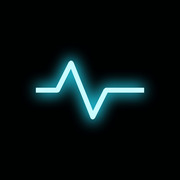
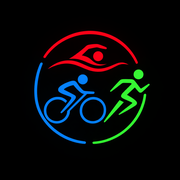
Glossario al tocco sulle metriche; nuova icona dell'app

Changed region(s): [[0.1667, 0.1667, 0.8333, 0.8056]]

diff --git a/web/glossary.js b/web/glossary.js
@@ -1,0 +1,157 @@
+// ============================================================== Glossario: tocca una metrica per sapere cos'e'
+// Le etichette con una voce qui sotto diventano toccabili (sottolineatura tratteggiata); il riquadro si chiude
+// toccando altrove. Le chiavi usano la stessa normalizzazione delle icone (window.nxKey).
+(() => {
+  const G = {
+    // ---------------------------------------------------------- corsa
+    distanza: 'Chilometri percorsi in movimento, dal GPS (o dal sensore sul tapis roulant).',
+    durata: 'Tempo in movimento: le soste non contano.',
+    tempo: 'Tempo in movimento: le soste non contano.',
+    passo: 'Minuti per chilometro sui tratti in movimento. Più basso vuol dire più veloce.',
+    'fc media': 'Frequenza cardiaca media della corsa, in battiti al minuto.',
+    'fc max': 'Il battito più alto registrato durante la corsa.',
+    dislivello: "Metri di salita totali, presi sempre da Strava: mai dall'orologio, che anche in piano sbaglia.",
+    tss: "Training Stress Score: quanto ha pesato l'allenamento, unendo durata e intensità. 100 ≈ un'ora alla soglia.",
+    cadenza: 'Passi al minuto, contando entrambi i piedi. Sale con la velocità; più alta di solito significa appoggi più leggeri.',
+    contatto: 'Millisecondi in cui il piede resta a terra a ogni passo. A parità di velocità, più breve = corsa più reattiva.',
+    'contatto al suolo': 'Tempo del piede a terra a ogni passo e bilanciamento sinistro/destro. A parità di velocità, più breve e più simmetrico è meglio.',
+    'efficiency factor': "Metri al minuto ottenuti per ogni battito. Se sale nel tempo a parità di sforzo, il motore aerobico migliora.",
+    'vo2max garmin': 'Stima Garmin del massimo consumo di ossigeno (ml/kg/min): il tuo potenziale aerobico.',
+    'vo2max stimato': 'Stima Garmin del massimo consumo di ossigeno (ml/kg/min): il tuo potenziale aerobico.',
+    'controllo intensita': "Quanto sei rimasto nelle zone (FC o target) giuste per quel tipo di allenamento.",
+    'efficienza aerobica': 'Deriva cardiaca ed Efficiency Factor rispetto alle tue corse simili: se il cuore non sale, la base aerobica è solida.',
+    'gestione del ritmo': 'Costanza del passo tra i giri e tra prima e seconda metà; nelle ripetute, quanto sono uguali tra loro.',
+    'rimbalzo verticale': "Quanto sali e scendi rispetto alla lunghezza del passo. Meno è meglio: l'energia va in avanti, non in alto.",
+    'resistenza alla fatica': "Quanto cambiano cadenza, contatto, passo e costo cardiaco nell'ultimo terzo rispetto al primo: la tenuta del gesto.",
+    'oscillazione verticale': 'Centimetri di su e giù del busto a ogni passo.',
+    'rapporto verticale': 'Oscillazione verticale divisa per la lunghezza del passo. Più basso = corsa più economica.',
+    'lunghezza del passo': 'Distanza tra due appoggi consecutivi, in metri.',
+    'deriva cardiaca': 'Quanto peggiora il rapporto passo/battito nella seconda metà. Sotto il 5% la base aerobica regge bene.',
+    'frequenza cardiaca': 'Battiti al minuto lungo il percorso.',
+    'split per km': 'Passo di ogni chilometro; il colore indica la FC (dal ciano, bassa, al magenta, alta).',
+    altimetria: "Profilo della quota; il dislivello totale è sempre quello di Strava.",
+    'passo a parita di frequenza cardiaca': 'A che passo corri con lo stesso battito: se diventa più veloce nel tempo, sei più in forma.',
+    'dinamiche a parita di passo': 'Cadenza, contatto e oscillazione allo stesso passo: se migliorano, il gesto è più economico.',
+    'volume settimanale': 'Chilometri di corsa per settimana, outdoor e tapis roulant insieme.',
+    // ---------------------------------------------------------- recupero
+    'indice di recupero': 'Sintesi 0-100 di HRV, sonno, FC a riposo, Body Battery e stress, confrontati con i tuoi ultimi 60 giorni.',
+    hrv: 'Variabilità del battito nel sonno. Più alta della tua media = sistema nervoso recuperato.',
+    'hrv notturna': 'Variabilità del battito nel sonno. Più alta della tua media = sistema nervoso recuperato.',
+    'variabilita hrv': "Quanto oscilla l'HRV da un giorno all'altro (7 giorni). Sopra il 6% il sistema è sotto stress.",
+    sonno: 'Punteggio e ore di sonno della notte, rispetto al tuo fabbisogno.',
+    'fc a riposo': 'Battito a riposo. Se sale sopra la tua media spesso segnala fatica, stress o un malanno in arrivo.',
+    'body battery': "Energia stimata da Garmin (0-100) al risveglio, da HRV, stress e sonno.",
+    'body battery ricaricata': 'Punti di energia recuperati durante la notte.',
+    stress: 'Stress medio della giornata, misurato da Garmin dalla variabilità del battito.',
+    'durata vs fabbisogno': 'Ore dormite rispetto al fabbisogno stimato da Garmin.',
+    'sleep score': 'Punteggio Garmin della notte (0-100): durata, fasi e risvegli.',
+    'sonno profondo e rem': 'Quota di sonno profondo (recupero fisico) e REM (recupero mentale) sul totale.',
+    'orario di addormentamento': "Ora in cui ti addormenti: più è regolare, meglio recuperi.",
+    'respiro nel sonno': "Respiri al minuto nel sonno: un aumento rispetto alla tua base spesso anticipa un'infezione.",
+    'spo2 nel sonno': "Saturazione di ossigeno nel sonno (%).",
+    'quantita di sonno': 'Ore dormite rispetto al fabbisogno, nella settimana.',
+    'qualita del sonno': 'Sleep Score e quota di sonno profondo + REM, nella settimana.',
+    'regolarita del sonno': "Quanto è costante l'orario in cui ti addormenti.",
+    'stress ed energia': 'Stress diurno e energia recuperata di notte (Body Battery).',
+    'equilibrio del carico': 'Rapporto tra carico recente e abituale, e forma (TSB).',
+    'segnali respiratori': 'Respiro e SpO2 notturni rispetto alla tua base: spesso cambiano prima di un malanno.',
+    // ---------------------------------------------------------- carico
+    cronico: "CTL: il carico medio delle ultime 6 settimane circa. È la tua forma di base.",
+    acuto: "ATL: il carico medio dell'ultima settimana circa. È la fatica recente.",
+    forma: "TSB = cronico − acuto. Negativo: stai accumulando fatica; positivo: sei fresco.",
+    'rapporto acuto:cronico': "Carico dell'ultima settimana rispetto alle ultime 6. Tra 0,8 e 1,3 il rischio di sovraccarico è più basso.",
+    'carico acuto vs cronico': 'Fatica recente (acuto) e forma di base (cronico); le barre sono il carico di ogni giorno.',
+    'carico di oggi': 'Forma, fatica e rapporto tra carico recente e abituale, calcolati dal TSS di tutti gli allenamenti.',
+    // ---------------------------------------------------------- voto del preparatore
+    'esecuzione dellallenamento': 'Quanto la seduta ha rispettato il piano e gli obiettivi del suo tipo: 70% del voto.',
+    'tecnica e tenuta': 'Qualità del gesto: cadenza, contatto, rimbalzo e tenuta con la fatica: 30% del voto.',
+    'fc sotto la soglia aerobica': 'Quota di tempo con il battito sotto il tetto della Z2: in un facile dovrebbe essere quasi tutto.',
+    'passo nel range facile': 'Se il passo è rimasto nel ritmo facile; in salita conta poco.',
+    'durata rispettata': 'Chilometri fatti rispetto a quelli previsti dal piano.',
+    'durata/distanza': 'Chilometri fatti rispetto a quelli previsti (o al lungo di riferimento).',
+    'passo delle ripetute': 'Quanto le ripetute sono state nel passo obiettivo.',
+    'regolarita tra le ripetute': "Quanto le ripetute sono state uguali tra loro.",
+    regolarita: 'Quanto sono stati uguali gli split.',
+    'fc coerente con lo sforzo': 'Se il battito nei tratti veloci era quello atteso per quel passo.',
+    'recuperi rispettati': 'Se le pause tra le ripetute sono durate quanto previsto.',
+    'volume di qualita completato': 'Chilometri fatti davvero al passo obiettivo rispetto a quelli previsti.',
+    'tratti a passo gara': 'Quanti chilometri al ritmo gara, e con quale battito.',
+    'tenuta del passo nel finale': "Quanto rallenti nell'ultimo 20% rispetto alla prima metà.",
+    'risultato vs stima': 'Tempo di gara rispetto alla stima della vigilia.',
+    // ---------------------------------------------------------- analisi predittive
+    prontezza: 'Quanto sei pronto oggi: sistema autonomo (HRV, battito, sonno) × neuromuscolare (test sul telefono).',
+    'sistema autonomo': "Recupero 'interno' da HRV (50%), FC a riposo e sonno, rispetto alla tua base.",
+    'sistema neuromuscolare': 'Prontezza dei muscoli e dei riflessi: tapping test di 10 s o salto CMJ, confrontati con la tua media.',
+    'carico cuore e struttura': 'Quanto lavora il cuore (TRIMP) e quanto lavorano gambe e articolazioni (impatti e discese) negli ultimi 7 giorni, rispetto al tuo storico.',
+    cardiovascolare: "Carico per il cuore: minuti in ogni zona di FC pesati per l'intensità (TRIMP).",
+    cuore: "Carico per il cuore: minuti in ogni zona di FC pesati per l'intensità (TRIMP).",
+    strutturale: 'Carico per gambe e articolazioni: passi × forza di ogni impatto, più alto in discesa e se appoggi in modo asimmetrico.',
+    struttura: 'Carico per gambe e articolazioni: passi × forza di ogni impatto, più alto in discesa e se appoggi in modo asimmetrico.',
+    'carico della corsa': 'Il peso di questa corsa per cuore e struttura, rispetto alle tue corse degli ultimi 120 giorni.',
+    carburante: 'Energia, carboidrati e grassi bruciati, e quanto reintegrare dopo.',
+    energia: 'Calorie spese correndo: circa 1 kcal per kg per km.',
+    carboidrati: "Grammi di zuccheri bruciati: più alta è l'intensità, più se ne usano.",
+    grassi: 'Grammi di grassi bruciati: soprattutto alle andature facili.',
+    'glicogeno usato': 'Quota delle scorte di zuccheri nei muscoli e nel fegato consumata (stima ~7 g/kg).',
+    'deriva biomeccanica': "Come cambia il gesto con la fatica: cadenza, contatto, oscillazione e simmetria nell'ultimo terzo.",
+    'forma verso la gara': 'Modello forma-fatica: proietta il piano fino alla gara e mostra quando sarai più in forma.',
+  };
+  const SEL = '.nx-stat > span:first-child, .gx-tile-name, .nx-sec-name, .gl-part-name > b, .nx-card-head > h3, .gx-dl dt, '
+    + '.px-sys-name, .gx-card > h2';
+  const keyOf = (e) => (window.nxKey ? window.nxKey(e.textContent) : (e.textContent || '').toLowerCase().trim());
+  const root = document.querySelector('.gx') || document.body;
+
+  function decorate() {
+    root.querySelectorAll(SEL).forEach((e) => {
+      if (e.classList.contains('nx-gl')) return;
+      if (!G[keyOf(e)]) return;
+      e.classList.add('nx-gl');
+      e.tabIndex = 0;
+      e.setAttribute('role', 'button');
+      e.setAttribute('aria-haspopup', 'dialog');
+    });
+  }
+
+  let tip = null;
+  const close = () => { if (tip) { tip.remove(); tip = null; } };
+  function open(e) {
+    close();
+    const text = G[keyOf(e)];
+    if (!text) return;
+    tip = document.createElement('div');
+    tip.className = 'nx-gloss';
+    tip.setAttribute('role', 'dialog');
+    const b = document.createElement('b'); b.textContent = e.textContent.split(/[·(]/)[0].trim();
+    const p = document.createElement('p'); p.textContent = text;
+    tip.append(b, p);
+    document.body.append(tip);
+    const r = e.getBoundingClientRect(), vw = document.documentElement.clientWidth, vh = window.innerHeight;
+    const w = Math.min(300, vw - 24);
+    tip.style.width = w + 'px';
+    tip.style.left = Math.max(12, Math.min(vw - w - 12, r.left)) + 'px';
+    const below = r.bottom + 8, h = tip.offsetHeight;
+    tip.style.top = (below + h > vh - 12 ? Math.max(12, r.top - h - 8) : below) + 'px';
+  }
+
+  document.addEventListener('click', (ev) => {
+    const e = ev.target.closest && ev.target.closest('.nx-gl');
+    if (e) { ev.preventDefault(); ev.stopPropagation(); open(e); return; }
+    if (!(tip && tip.contains(ev.target))) close();
+  }, true);
+  document.addEventListener('keydown', (ev) => {
+    if (ev.key === 'Escape') close();
+    if ((ev.key === 'Enter' || ev.key === ' ') && document.activeElement && document.activeElement.classList.contains('nx-gl')) {
+      ev.preventDefault(); open(document.activeElement);
+    }
+  });
+  window.addEventListener('scroll', close, { passive: true });
+  window.addEventListener('resize', close);
+
+  let queued = false;
+  new MutationObserver(() => {
+    if (queued) return;
+    queued = true;
+    requestAnimationFrame(() => { queued = false; decorate(); });
+  }).observe(root, { childList: true, subtree: true });
+  decorate();
+})();

diff --git a/web/neon.css b/web/neon.css
@@ -353,6 +353,17 @@
   font: 600 28px/1 ui-monospace, monospace; letter-spacing: .1em; box-shadow: 0 0 30px #22e5ff44; touch-action: manipulation; user-select: none; -webkit-user-select: none; }
 .px-tap-pad:active { background: #22e5ff33; }
 
+/* Glossario: etichette toccabili e riquadro con la spiegazione */
+.nx-gl { cursor: help; text-decoration: underline dotted rgba(131, 145, 184, .55); text-underline-offset: 3px; text-decoration-thickness: 1px; }
+.nx-gl:hover, .nx-gl:focus-visible { text-decoration-color: #22e5ff; outline: none; }
+.nx-gloss { position: fixed; z-index: 120; background: #0c1120; color: #e8f1ff; border: 1px solid #22e5ff66; border-radius: 12px;
+  padding: 10px 12px; box-shadow: 0 0 18px #22e5ff33, 0 10px 30px rgba(0, 0, 0, .6); font-family: var(--font-anthropic-sans, system-ui, sans-serif);
+  font-size: 13px; line-height: 1.45; text-transform: none; letter-spacing: 0; }
+.nx-gloss b { display: block; color: #22e5ff; font-size: 12px; text-transform: uppercase; letter-spacing: .08em; margin-bottom: 4px; }
+.nx-gloss p { margin: 0; }
+@media (prefers-reduced-motion: no-preference) { .nx-gloss { animation: nx-gloss-in .18s ease-out; } }
+@keyframes nx-gloss-in { from { opacity: 0; transform: translateY(-4px); } }
+
 /* Icone: tratto laser sottile, tono dalla palette neon, alone leggero che si accende al passaggio */
 .nx-ic {
   /* inline-block esplicito: claude.ai rende ogni svg un blocco e l'icona finirebbe su una riga a se' */

diff --git a/web/sw.js b/web/sw.js
@@ -1,7 +1,7 @@
 // Service worker: l'app si apre anche offline (ultimi dati scaricati, sempre cifrati).
 // File dell'app dalla cache (versione = impronta della build), data.bin prima dalla rete.
-const CACHE = 'diario-8d286adf0ee8';
-const SHELL = ["./", "app.js", "base.css", "carica.js", "d3.min.js", "goal.js", "icon-180.png", "icon-192.png", "icon-512.png", "icons.js", "index.html", "inline-1.js", "inline-2.js", "inline-3.js", "inline-4.js", "manifest.webmanifest", "neon.css", "page.css", "pages.js", "perf.js", "recovery.js", "run.js", "today.js"];
+const CACHE = 'diario-9fbe2371cf3d';
+const SHELL = ["./", "app.js", "base.css", "carica.js", "d3.min.js", "glossary.js", "goal.js", "icon-180.png", "icon-192.png", "icon-512.png", "icons.js", "index.html", "inline-1.js", "inline-2.js", "inline-3.js", "inline-4.js", "manifest.webmanifest", "neon.css", "page.css", "pages.js", "perf.js", "recovery.js", "run.js", "today.js"];
 
 self.addEventListener('install', (e) => {
   e.waitUntil(caches.open(CACHE).then((c) => c.addAll(SHELL)).then(() => self.skipWaiting()));

diff --git a/web/index.html b/web/index.html
@@ -23,7 +23,7 @@
 <body>
 <div id="lock">
   <form id="lock-form" class="lock-card" autocomplete="on">
-    <svg class="lock-logo" viewBox="0 0 24 24" aria-hidden="true"><path d="M2 12h4l2.5-5 4 10 2.5-5H22"/></svg>
+    <img class="lock-logo-img" src="icon-192.png" alt="" width="84" height="84">
     <h1>Diario Triathlon</h1>
     <p class="lock-text">Inserisci la frase segreta per sbloccare i tuoi dati su questo dispositivo.</p>
     <input class="sr-only" type="text" name="username" autocomplete="username" value="diario-triathlon" tabindex="-1" aria-hidden="true">
@@ -401,6 +401,7 @@
 <script src="inline-3.js"></script>
 <script src="inline-4.js"></script>
 <script src="icons.js"></script>
+<script src="glossary.js"></script>
 <script src="run.js"></script>
 <script src="recovery.js"></script>
 <script src="pages.js"></script>

diff --git a/web/base.css b/web/base.css
@@ -34,6 +34,7 @@ body { font-family: var(--font-anthropic-sans); font-size: var(--cds-font-size-b
   background: #0c1120; border: 1px solid #1c2746; border-radius: 16px; box-shadow: 0 0 30px #22e5ff1f; }
 .lock-logo { width: 44px; height: 44px; fill: none; stroke: #22e5ff; stroke-width: 1.6; stroke-linecap: round; stroke-linejoin: round;
   filter: drop-shadow(0 0 3px #22e5ff) drop-shadow(0 0 10px #22e5ff88); }
+.lock-logo-img { width: 84px; height: 84px; border-radius: 20px; box-shadow: 0 0 24px #22e5ff33; }
 .lock-card h1 { margin: 0; font-family: var(--font-anthropic-serif); font-weight: 400; font-size: 28px; text-shadow: 0 0 18px #22e5ff55; }
 .lock-text, .lock-note, #lock-msg { margin: 0; color: #8391b8; font-size: 13px; }
 #lock-msg { min-height: 1.2em; color: #ffb22e; }

diff --git a/web_src/base.css b/web_src/base.css
@@ -34,6 +34,7 @@ body { font-family: var(--font-anthropic-sans); font-size: var(--cds-font-size-b
   background: #0c1120; border: 1px solid #1c2746; border-radius: 16px; box-shadow: 0 0 30px #22e5ff1f; }
 .lock-logo { width: 44px; height: 44px; fill: none; stroke: #22e5ff; stroke-width: 1.6; stroke-linecap: round; stroke-linejoin: round;
   filter: drop-shadow(0 0 3px #22e5ff) drop-shadow(0 0 10px #22e5ff88); }
+.lock-logo-img { width: 84px; height: 84px; border-radius: 20px; box-shadow: 0 0 24px #22e5ff33; }
 .lock-card h1 { margin: 0; font-family: var(--font-anthropic-serif); font-weight: 400; font-size: 28px; text-shadow: 0 0 18px #22e5ff55; }
 .lock-text, .lock-note, #lock-msg { margin: 0; color: #8391b8; font-size: 13px; }
 #lock-msg { min-height: 1.2em; color: #ffb22e; }

diff --git a/web_src/shell.html b/web_src/shell.html
@@ -22,7 +22,7 @@
 <body>
 <div id="lock">
   <form id="lock-form" class="lock-card" autocomplete="on">
-    <svg class="lock-logo" viewBox="0 0 24 24" aria-hidden="true"><path d="M2 12h4l2.5-5 4 10 2.5-5H22"/></svg>
+    <img class="lock-logo-img" src="icon-192.png" alt="" width="84" height="84">
     <h1>Diario Triathlon</h1>
     <p class="lock-text">Inserisci la frase segreta per sbloccare i tuoi dati su questo dispositivo.</p>
     <input class="sr-only" type="text" name="username" autocomplete="username" value="diario-triathlon" tabindex="-1" aria-hidden="true">

diff --git a/web/icons.js b/web/icons.js
@@ -157,4 +157,5 @@
   }).observe(root, { childList: true, subtree: true, characterData: true });
   decorate(root);
   window.nxIcon = icon;
+  window.nxKey = key;            // stessa normalizzazione dei testi, usata anche dal glossario
 })();

diff --git a/cloud/build_web.py b/cloud/build_web.py
@@ -43,8 +43,18 @@ def fix(name: str, text: str) -> str:
 
 
 def icons() -> None:
-    """Icona dell'app: tracciato del battito al neon su fondo scuro."""
+    """Icona dell'app: web_src/app-icon.png (quadrata, fondo nero) se c'e', altrimenti un tracciato del battito al neon."""
     from PIL import Image, ImageDraw, ImageFilter
+    custom = SHELL / "app-icon.png"
+    if custom.exists():
+        src = Image.open(custom).convert("RGBA")
+        side = min(src.size)
+        src = src.crop(((src.width - side) // 2, (src.height - side) // 2, (src.width + side) // 2, (src.height + side) // 2))
+        img = Image.new("RGB", src.size, (0, 0, 0))
+        img.paste(src, mask=src.getchannel("A"))          # iOS non accetta trasparenze: fondo nero pieno
+        for size in (180, 192, 512):
+            img.resize((size, size), Image.LANCZOS).save(OUT / f"icon-{size}.png", optimize=True)
+        return
     base = 1024
     pts = [(2, 12), (6, 12), (8.5, 7), (12.5, 17), (15, 12), (22, 12)]
     img = Image.new("RGB", (base, base), (7, 10, 18))
